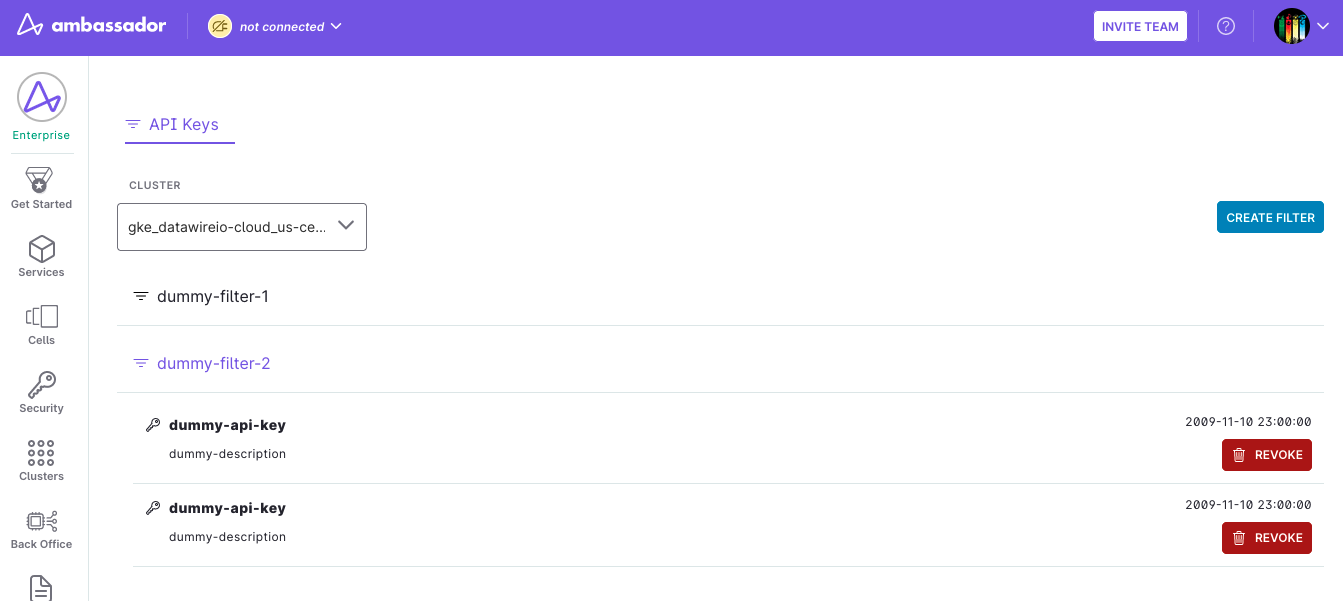
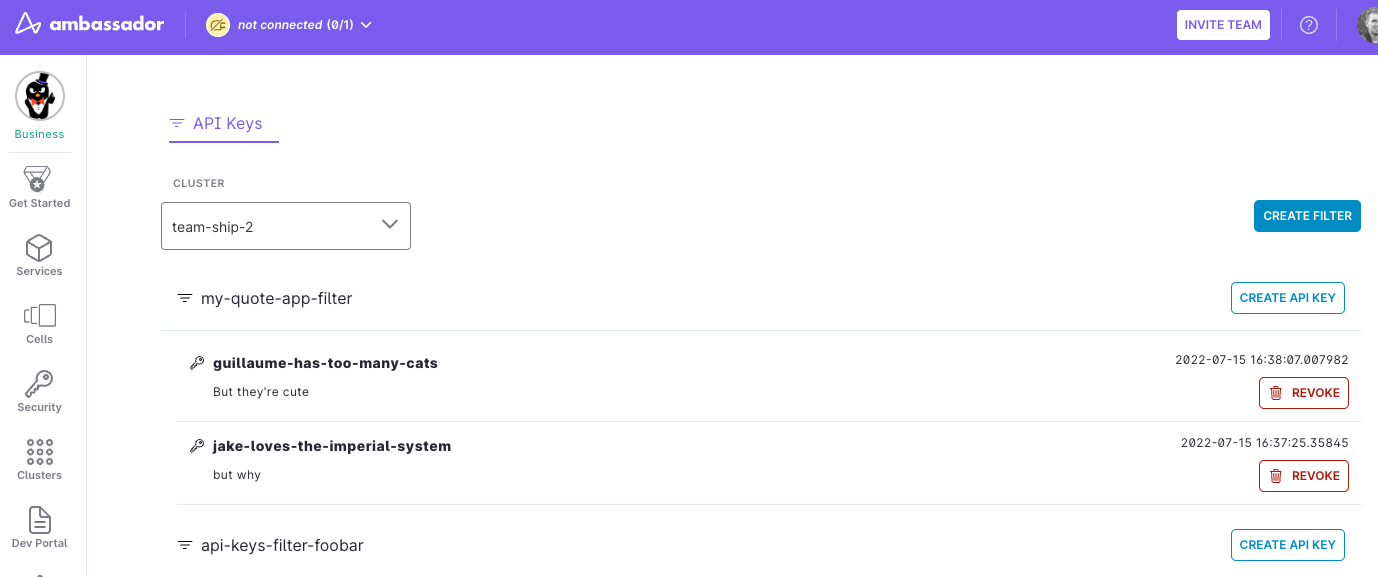
(from getambassador.io) Update screens, add technical informations, add a link to the dev portal from edge stack doc

diff --git a/docs/cloud/latest/security/api-keys/manage-keys.md b/docs/cloud/latest/security/api-keys/manage-keys.md
@@ -1,3 +1,5 @@
+import Alert from '@material-ui/lab/Alert';
+
 # Manage api keys
 
 From this part of the interface, you can generate or revoke a key across multiple filters.
@@ -7,15 +9,31 @@ From this part of the interface, you can generate or revoke a key across multipl
 First, browse through the different 'pools' of API keys, and unfold the one
 you want to manage by clicking on it.
 
+<p align="center">
+  <img src="./../../../images/security-filters-api-keys-unfold.png" width="1000"/>
+</p>
+
 ## Create a key
 
-To create a key, click on **Create Key**, and provide a description. A key will be generated, and you can copy it to send it to a client.
+To create a key, click on **CREATE API KEY**, and provide a name & a description:
 
-It can take some seconds to transmit the key to your cluster.
+<p align="center">
+  <img src="./../../../images/security-filters-api-keys-create.png" width="600"/>
+</p>
+
+<Alert severity="warning">
+  You won't be able to see the value of this key again.
+</Alert>
+
+A key will be generated, and you can copy it to send it to a client the way you prefer. 
+
+<Alert severity="info">
+  It can take up to 30 seconds before the key becomes active.
+</Alert>
 
 ## Revoke a key
 
-To revoke a key, select the one you want to revoke, and click on **Revoke**. The key won't 
+To revoke a key, select the one you want to revoke, and click on **REVOKE**. The key won't 
 be usable anymore.
 
 

diff --git a/docs/cloud/latest/security/api-keys/create-filter.md b/docs/cloud/latest/security/api-keys/create-filter.md
@@ -6,18 +6,26 @@ For that, we leverage the APIKey configuration of the [Filter CRD](../../../../.
 
 # Steps
 
-First, click on the **Create filter** button to create one, and provide a name.
+Click on the **Create filter** button to create one, and start by providing a name. 
+
+The UI should also ask for a route to associate this first Filter with (you will then have to provide a host and a path). Each host / 
+route you define will be secured by the api keys you'll be able to generate later.
 
 <p align="center">
-  <img src="./../../../images/security-create-filter.png" width="300"/>
+  <img src="./../../../images/security-create-filter.png" width="500"/>
 </p>
 
-If this is the first time you create one, the UI should also ask for a route to associate
-this first Filter with (you will then have to aprovide a host and a path).
+Clic on **CREATE**, and copy the YAML source which has been generated for you:
 
-Then clic on create, and paste the YAML source which has been generated for you.
+<p align="center">
+  <img src="./../../../images/security-create-filter-yaml-source.png" width="500"/>
+</p>
 
-You can then save it in your favorite GitOps tool, or apply it directly to your cluster.
+You can now paste the content into a YAML file, and synchronize it with your favorite GitOps tool, or apply it directly to your cluster using `kubectl`.
+
+```bash
+kubectl apply -f generated-filters.yaml
+```
 
 
 

diff --git a/docs/cloud/latest/security/api-keys/introduction.md b/docs/cloud/latest/security/api-keys/introduction.md
@@ -13,8 +13,20 @@ The Cloud UI gives you the ability to create such autentication system, and then
 your own set of keys.
 
   <p align="center">
-    <img src="./../../../images/security-filters-api-keys.png" width="600"/>
+    <img src="./../../../images/security-filters-api-keys.png" width="1000"/>
   </p>
+
+
+# Technical architecture
+
+To implement this functionnality, Ambassador cloud will interact with your cluster by leveraging the [Filter](../../../../../edge-stack/latest/topics/using/filters/apikeys/) & [FilterPolicy](../../../../../edge-stack/latest/topics/using/filters/#filterpolicy-definition) CRDs.
+
+For each set of key, the system relies on:
+1. A `Filter` with the `APIKey` configuration.
+2. A shared `FilterPolicy` used by all the filters created through this functionnality.
+3. A `Secret` for each set of keys, referenced in the `Filter`.
+4. A link between Ambassador Cloud and your cluster to add / remove the keys from the secret associated with the filter (activated when you link your cluster to Ambassador Cloud)
+
 
 
 

diff --git a/docs/cloud/latest/visualize-api/quick-start.md b/docs/cloud/latest/visualize-api/quick-start.md
@@ -35,6 +35,8 @@ You can visualize and explore your service’s OpenAPI specification (formerly k
 
 3. Click on the API tab to access the rendered OpenAPI documentation.
 
+4. You can also see all your APIs by clicking on the **Dev Portal** button in the side bar, documented [here](../../developer-portal/how-to-use/).
+
 ## <img class="os-logo" src="../../images/logo.png" alt="Telepresence Logo" /> What's next?
 
 You've published your service documentation on Ambassador Cloud to enable collaboration with other teams and members of your organization, but you can extend your services AmbassadorMapping with [other Developer Portal docs options](../../../../edge-stack/latest/topics/using/dev-portal/#docs-attribute-in-mappings), and **Service Catalog annotations!**  See the full list of service annotations [here](../../service-catalog/reference/annotations/).
